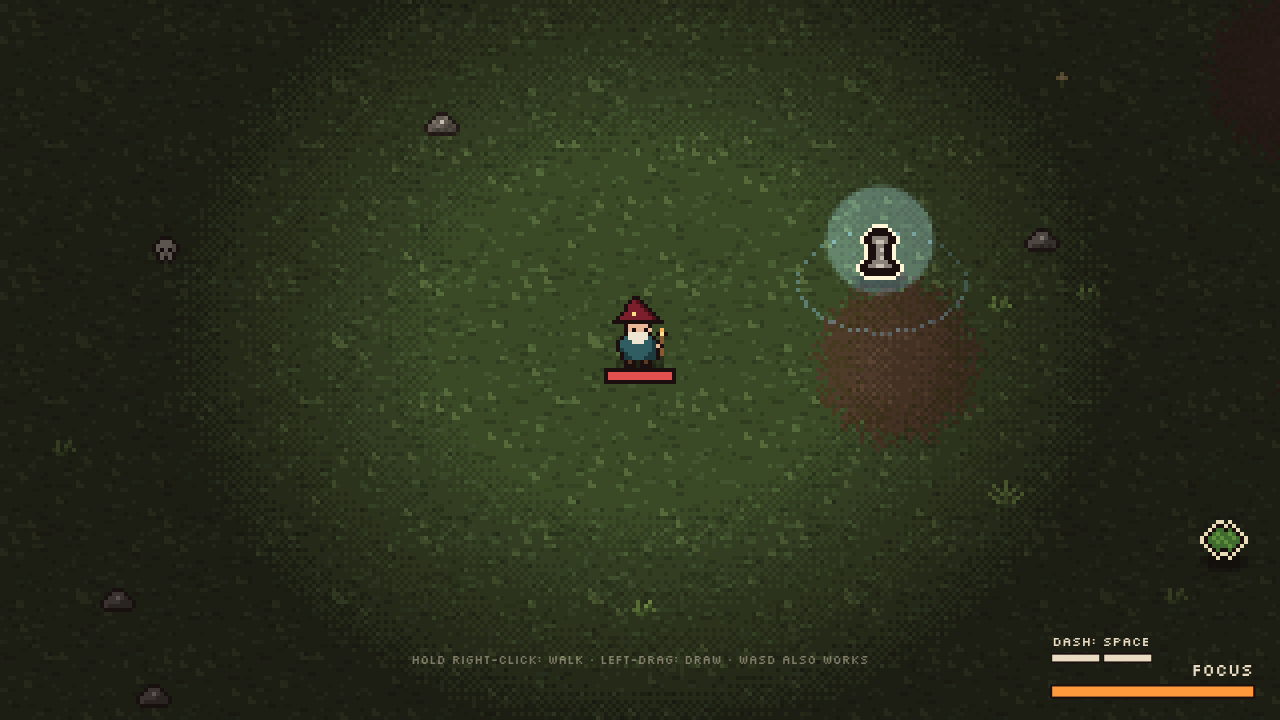
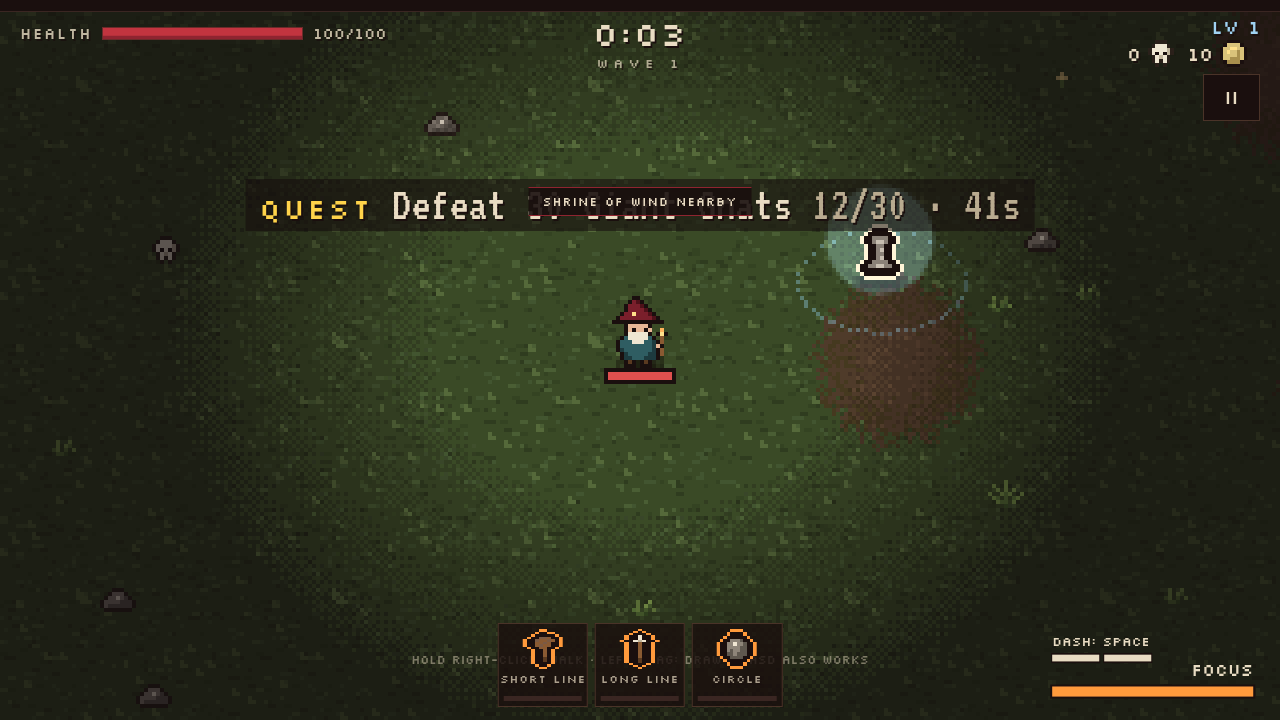
update(cave-paintings): frenzy, relics, shrines, mini-quests, new enemy variants

diff --git a/sw.js b/sw.js
@@ -1,5 +1,5 @@
 // Era Draw service worker: cache-first, versioned. Bump VERSION on every release.
-const VERSION='eradraw-v1';
+const VERSION='eradraw-20261014115119';
 const ASSETS=['./','index.html','style.css','fonts/fonts.css','manifest.webmanifest','icon.svg','icons/icon-180.png','icons/icon-192.png','fonts/Silkscreen-400.woff2','fonts/Silkscreen-700.woff2','fonts/VT323-400.woff2','fonts/InstrumentSerif-400.woff2',
  'audio.js','sprites.js','enemies.js','forge.js','game.js','eras.js','meta.js','platform.js','progression.js','cave.js','main.js'];
 self.addEventListener('install',e=>{e.waitUntil(caches.open(VERSION).then(c=>c.addAll(ASSETS)).then(()=>self.skipWaiting()))});
